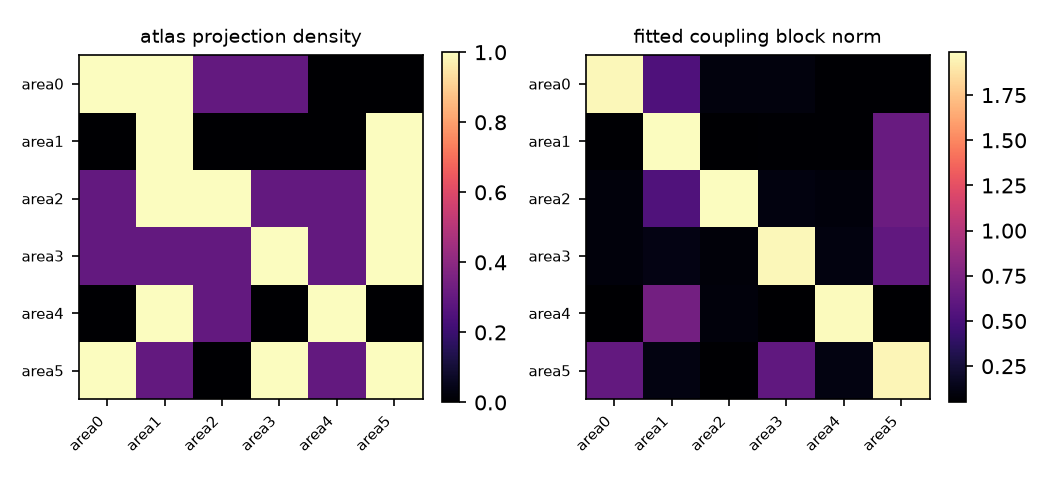
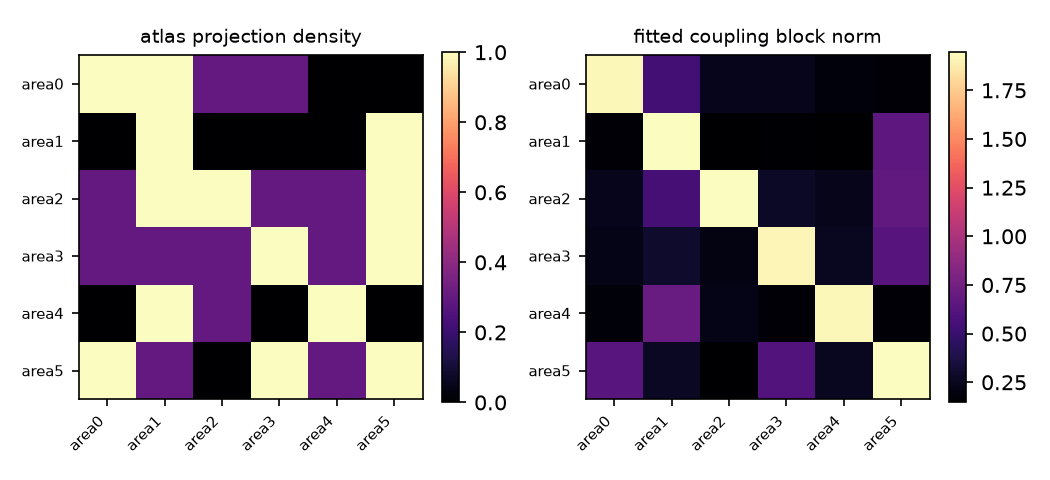
Coupling: test anatomy against the unconstrained fit, not the atlas-penalised one
The block-norm vs projection-density correlation was computed from the model
fit at the selected lambda, where the atlas prior already pushes blocks toward
the atlas pattern. It now uses the lambda = 0 fit; the selected-lambda norms
are kept under a separate key. Synthetic: r 0.961 -> 0.975.

Claude-Session: https://claude.ai/code/session_011TbckNzWsWMN3gpi2h5nNC

diff --git a/src/allen_circuit_dynamics/experiments.py b/src/allen_circuit_dynamics/experiments.py
@@ -185,7 +185,11 @@ def run_coupling_experiment(
         }
     best_lam = max(by_lam, key=lambda k: by_lam[k]["atlas_r2"])
     final = CoupledLDS(area_dims, conn=conn, lam=float(best_lam), ridge=cfg.ridge).fit(s, blocks)
-    norms = final.block_norms()
+    norms_selected = final.block_norms()
+    # The anatomy comparison uses the UNCONSTRAINED fit: a prior that favours the atlas pattern
+    # would otherwise manufacture the very correlation being tested.
+    free = CoupledLDS(area_dims, conn=None, lam=0.0, ridge=cfg.ridge).fit(s, blocks)
+    norms = free.block_norms()
     off = ~np.eye(len(area_dims), dtype=bool)
     conn_arr = np.asarray(conn, dtype=float)
     corr = (
@@ -205,7 +209,8 @@ def run_coupling_experiment(
         "unconstrained_r2": unconstrained,
         "by_lambda": by_lam,
         "selected_lambda": float(best_lam),
-        "coupling_block_norms": norms.tolist(),
+        "coupling_block_norms": norms.tolist(),  # unconstrained fit (lambda = 0)
+        "coupling_block_norms_at_selected_lambda": norms_selected.tolist(),
         "connectivity": np.asarray(conn).tolist(),
         "corr_blocknorm_vs_connectivity_offdiag": corr,
         "corr_permutation_p": corr_p,
